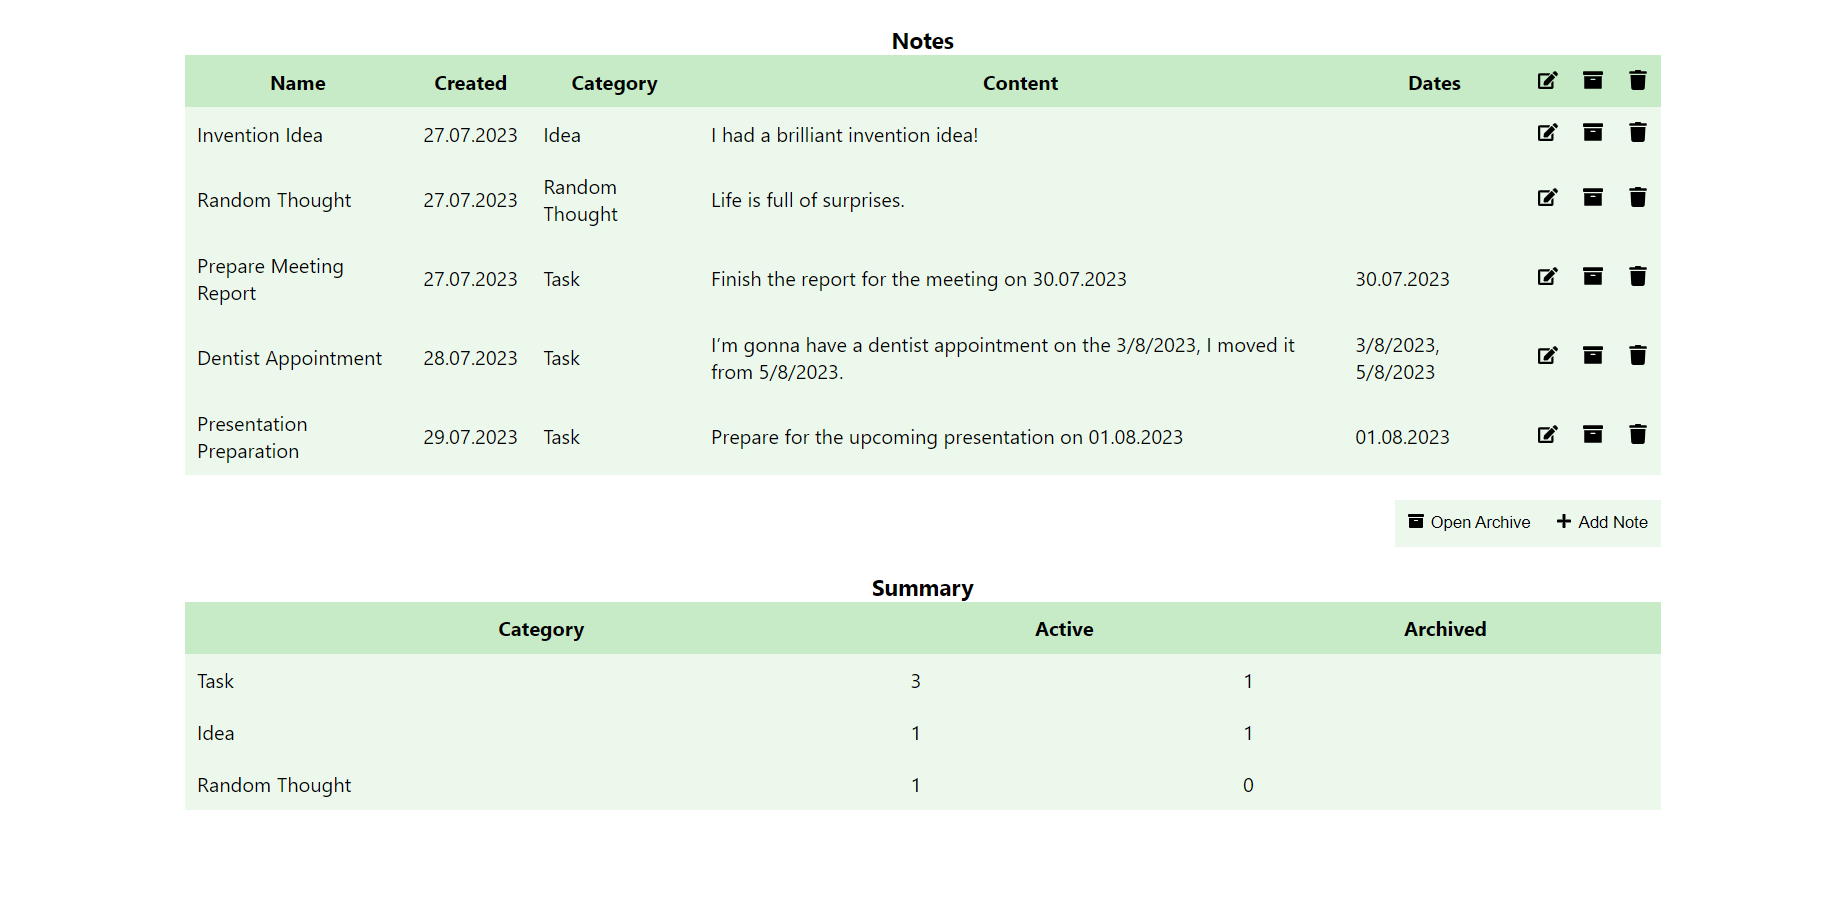
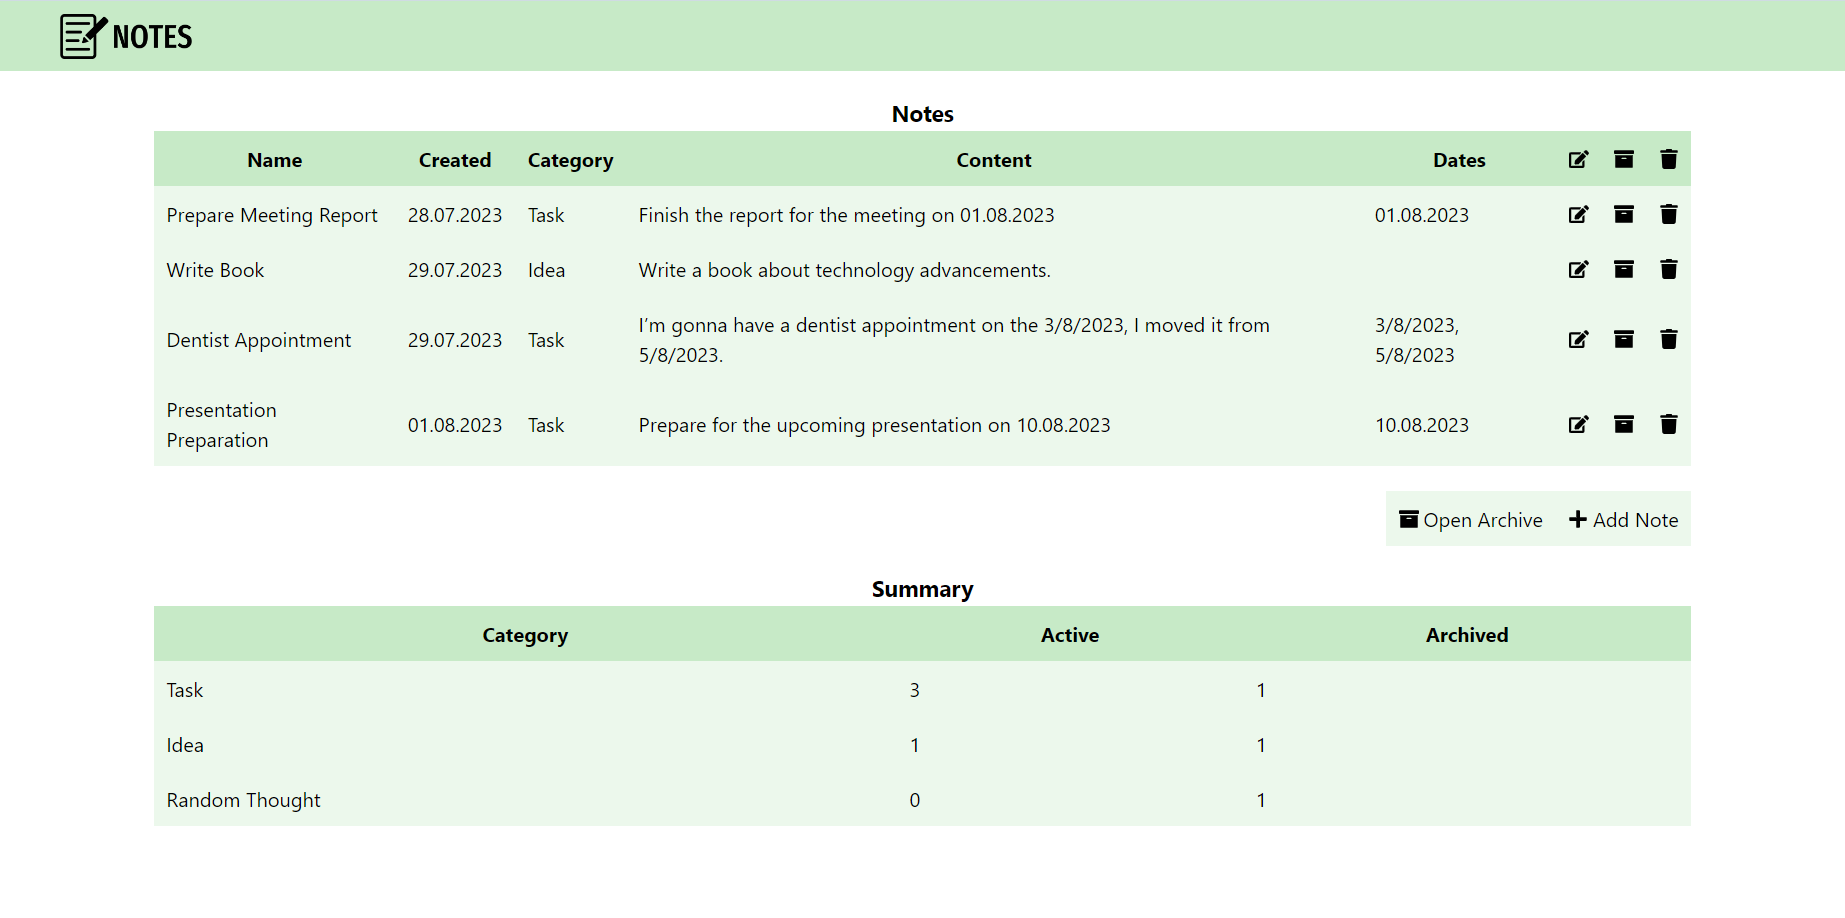
add header

diff --git a/src/services/notesServise.ts b/src/services/notesServise.ts
@@ -2,12 +2,14 @@ import {ICategory, INote, INoteAction, INoteToAddOrUpdate, ISetNotesAction, Summ
 import {getNotesFromApi, addNoteToApi, updateNoteOnApi, archiveOrUnarchiveNoteOnApi, deleteNoteOnApi} from "../axios/notes";
 import {Dispatch} from "redux";
 
+const onError = (error: any) => console.error(error);
+
 export function fetchNotes(dispatch: Dispatch, setNotes: (notes: INote[]) => ISetNotesAction): void {
     getNotesFromApi()
         .then(response => {
             dispatch(setNotes(response.data));
         })
-        .catch(error => console.error(error));
+        .catch(onError);
 }
 
 export function getActive(notes: INote[]): INote[] {
@@ -39,23 +41,23 @@ export function getSummary(notes: INote[], categories: ICategory[]): Summary[] {
 export function archiveOrUnarchiveNote(note: INote, dispatch: Dispatch, editNote: (note: INote) => INoteAction): void {
     archiveOrUnarchiveNoteOnApi(note.note_id, !note.archived)
         .then(response => dispatch(editNote(response.data)))
-        .catch(error => console.error(error));
+        .catch(onError);
 }
 
 export function createNote(note: INoteToAddOrUpdate, dispatch: Dispatch, addNote: (note: INote) => INoteAction): void {
     addNoteToApi(note)
         .then(response => dispatch(addNote(response.data)))
-        .catch(error => console.error(error));
+        .catch(onError);
 }
 
 export function updateNote(id: number, note: INoteToAddOrUpdate, dispatch: Dispatch, editNote: (note: INote) => INoteAction): void {
     updateNoteOnApi(id, note)
         .then(response => dispatch(editNote(response.data)))
-        .catch(error => console.error(error));
+        .catch(onError);
 }
 
 export function removeNote(id: number, dispatch: Dispatch, deleteNote: (note: INote) => INoteAction): void {
     deleteNoteOnApi(id)
         .then(response => dispatch(deleteNote(response.data)))
-        .catch(error => console.error(error));
+        .catch(onError);
 }

diff --git a/src/pages/mainpage/MainPage.tsx b/src/pages/mainpage/MainPage.tsx
@@ -10,6 +10,7 @@ import MainPageAddEditNoteModal from "./MainPageAddEditNoteModal";
 import {addNote, deleteNote, editNote, setNotes, setCategories} from "../../redux/actions";
 import {fetchCategories} from "../../services/categoriesService";
 import {fetchNotes, updateNote, createNote, removeNote, archiveOrUnarchiveNote} from "../../services/notesServise";
+import Header from "../../components/Header/Header";
 
 const MainPage = () => {
     const dispatch = useDispatch();
@@ -65,6 +66,7 @@ const MainPage = () => {
 
     return (
         <>
+            <Header/>
             <div className={"my-5 mx-auto w-19/20 md:w-5/6 overflow-x-auto"}>
                 <MainPageMainTable notes={notes}
                                    editNoteHandle={openModalToEdit}

diff --git a/src/components/Header/Header.tsx b/src/components/Header/Header.tsx
@@ -1,0 +1,11 @@
+import React from 'react';
+
+function Header() {
+    return (
+        <header className={"bg-green h-14 flex items-center"}>
+            <img src={"logo.png"} alt={"Notes"} className={"h-9 ml-12"}/>
+        </header>
+    )
+}
+
+export default Header;

diff --git a/README.md b/README.md
@@ -29,8 +29,9 @@ Before running the application, make sure you have the Node.js installed.
 2. Clone project from repository `git clone https://github.com/marharita08/notes-react`.
 3. Navigate to project folder `cd notes-react`.
 4. Install the necessary npm packages `npm install`.
-5. Run the application `npm start`.
-6. Once the application is running, open your web browser and go to `http://localhost:3000/`.
+5. Update `.env` if it is necessary.
+6. Run the application `npm start`.
+7. Once the application is running, open your web browser and go to `http://localhost:3000/`.
 
 ## Usage
 
